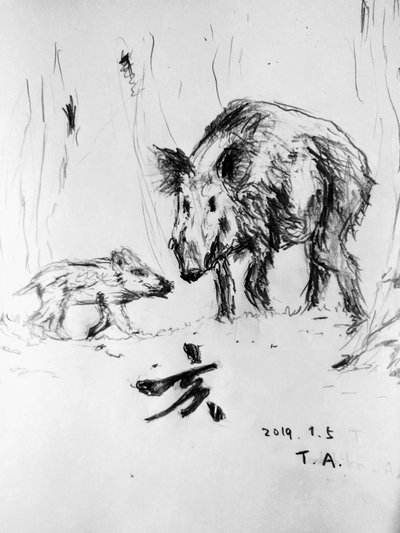
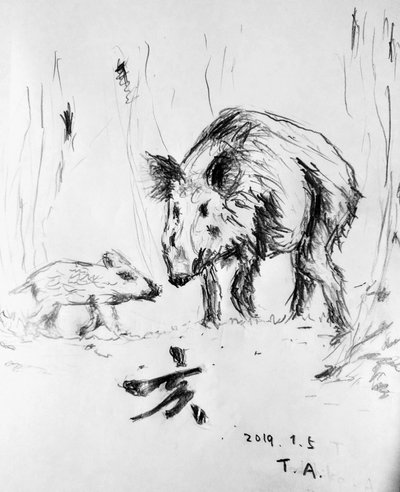
そして改変

diff --git a/blog/hello-2019.html b/blog/hello-2019.html
@@ -11,7 +11,7 @@
 <meta content="新年あけましておめでとうございます。" property="og:title" />
 <meta content="article" property="og:type" />
 <meta content="https://araemon.github.io/blog/.html" property="og:url" />
-<meta content="" property="og:image" />
+<meta content="https://araemon.github.io/images/boar-2019.jpg" property="og:image" />
 <?php echo $SITE['article_appid']; ?>
 <link rel="stylesheet" type="text/css" href="/css/icon.css" />
 </head>
@@ -50,6 +50,7 @@
                                         新年明けましておめでとうございます。<br>
 今年もどうぞ宜しくお願い申し上げます。<br>
 <br>
+<img data-src="/images/boar-2019.jpg" class="default lazyload" /><br>
 
                                 </p>
                                 <ul class="shareList">
